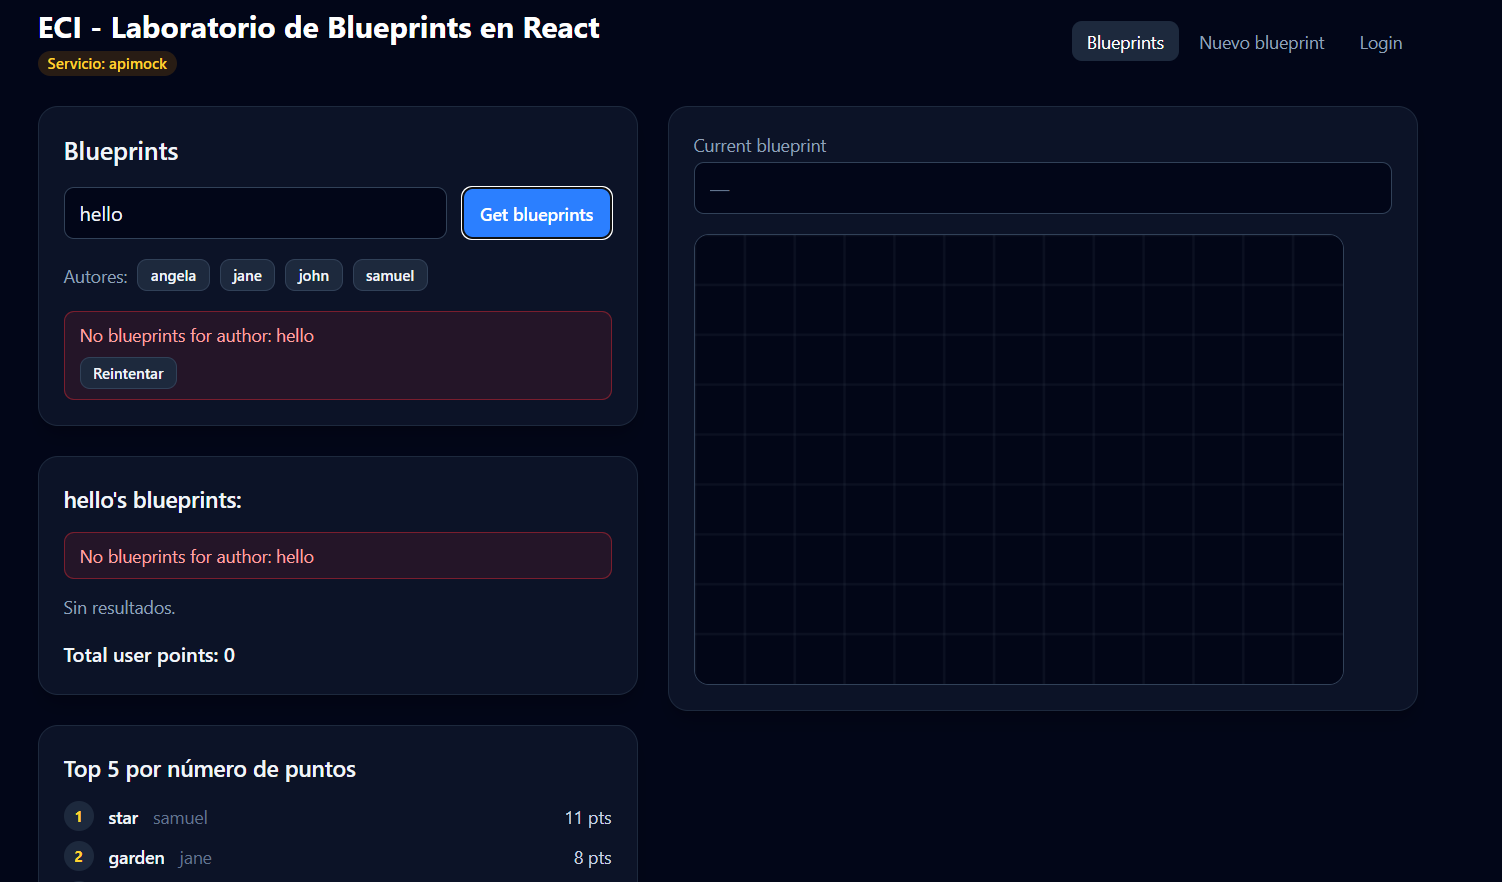
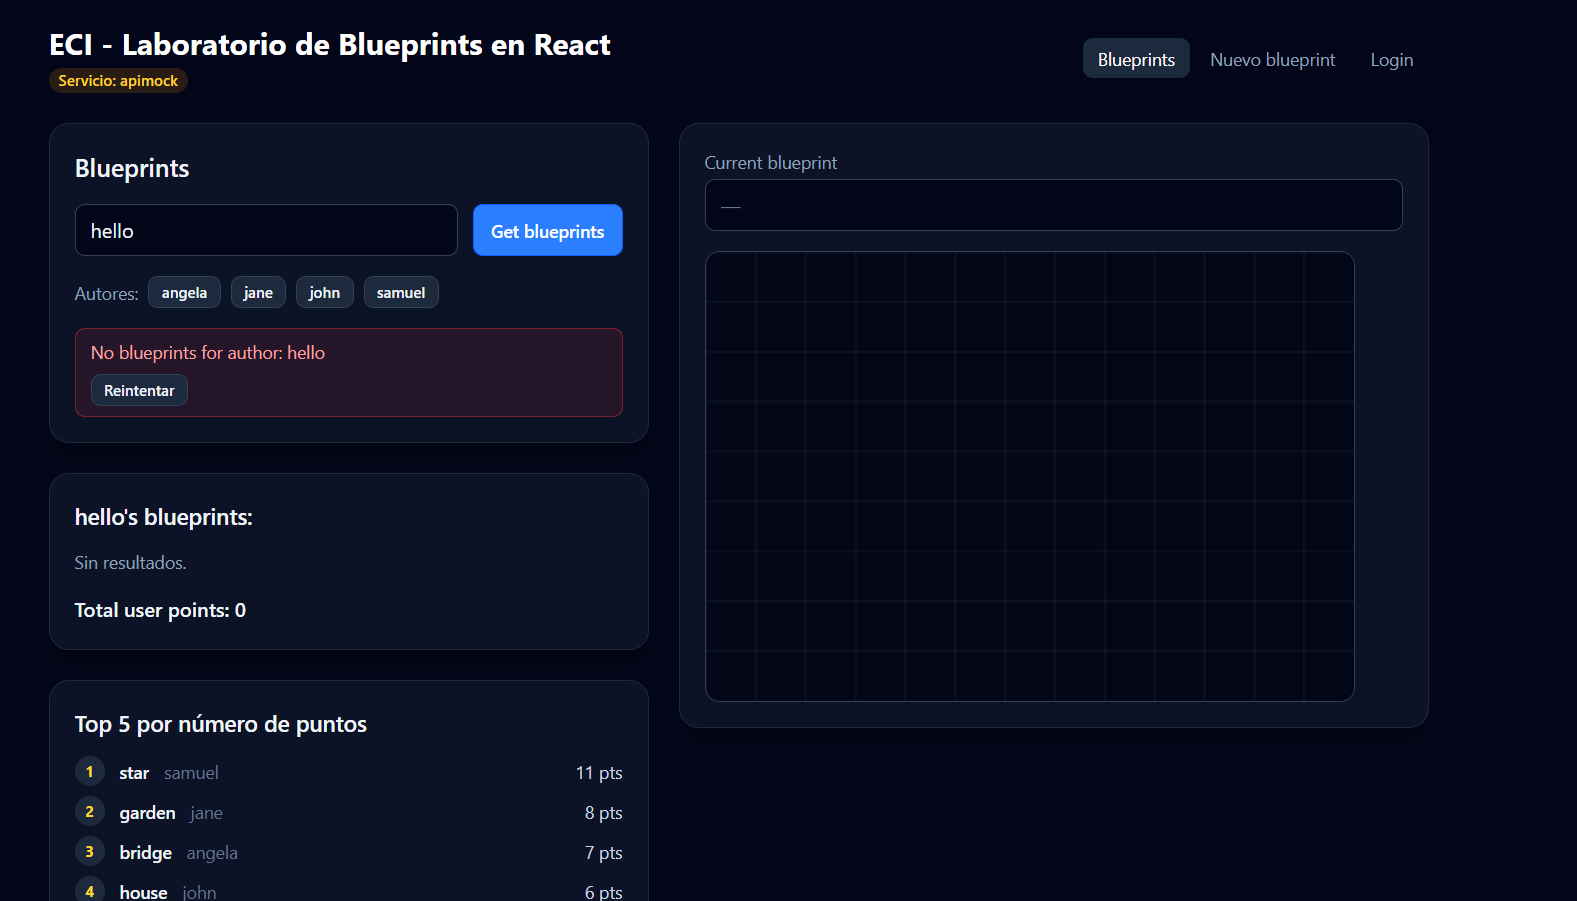
Lab ready + bonus

diff --git a/README.md b/README.md
@@ -327,14 +327,71 @@ A continuación se muestra la ejecución de dichos comandos con su commit y push
 
 ![before-actions](/src/img/before-actions.png)
 
+Después de estos comandos, se miró la página de Actions del repositorio, en donde me pedía habilitar mis workflows, le di click y esperamos algunos minutos a que se habilitara el workflow. Acá primero se mostró en amarillo el workflow basado en el último commit. A los pocos segundos, este se volvió verde, como se muestra a continuación: 
+
+![green-workflow](/src/img/green-workflow.png)
+
+Al darle click a este workflow, se pueden ver los siguientes detalles del worflow: 
+
+![workflow-details](/src/img/workflow-details.png)
+
+En adición, es posible ver un chulo verde al lado del nombre del último commit, en la pestaña de Code. 
+
 
 ### 8. Docker (opcional)
 
+**Nota**: Este punto fue apoyado en gran medida por Claude y ChatGPT, pues la cantidad de archivos que tocó modificar a nivel de back y front tanto para conservar los SEEDS del mock como para lograr la conexión exitosa es de alta complejidad. 
 
+Para poder hacer la conexión entre el repositorio del back [Laboratorio 4 - BluePrints Backend](https://github.com/Queruubin/Lab4_Castelblanco_Gomez), fue necesario editar los siguientes elementos: 
 
+**Backend:**
+
+- SecurityConfig.java: se configuró CORS para permitir que el frontend, ejecutándose en el puerto 5173, pueda realizar peticiones al backend, que continúa ejecutándose en el puerto 8080. 
+
+- InMemoryBlueprintPersistence.java: se actualizaron los datos iniciales almacenados en memoria para que coincidieran con los datos que originalmente estaban definidos en el apiMock.js del frontend.
+
+- schema.sql: se actualizaron los datos iniciales de PostgreSQL para incluir los mismos seis blueprints definidos originalmente en el mock del frontend, así los datos mostrados son los mismos que se tenían cuando la aplicación utilizaba datos mockeados.
+
+**Frontend:**
+
+* **`docker-compose.yml`**: se configuró el frontend para comunicarse con el backend mediante Docker. Se estableció el backend en el puerto `8080` y el frontend en el puerto `5173`.
+
+* En la configuración de Docker se estableció:
+
+```yaml
+VITE_USE_MOCK: "false"
+VITE_API_BASE_URL: "http://localhost:8080"
+```
+
+Esto hace que el frontend deje de utilizar `apiMock.js` y utilice `apiClient.js` para realizar las peticiones HTTP al backend real.
+
+* **`Dockerfile`**: se modificó para utilizar una construcción de múltiples etapas. Primero se construye la aplicación de React/Vite y posteriormente se sirve la aplicación compilada utilizando `serve` en el puerto `4173`, que se expone externamente mediante el puerto `5173`.
+
+* **`apiClient.js`**: este archivo ya contenía la lógica necesaria para comunicarse con el backend mediante Axios. Se utiliza para realizar las operaciones sobre los blueprints y para enviar las credenciales al endpoint `/auth/login`. También agrega automáticamente el token JWT en las peticiones que requieren autenticación.
+
+De esta forma, después de correr el siguiente comando desde el front, se ven los siguientes cambios: 
+
+```bash
+docker compose --build
+```
+
+![connection-before](/src/img/connection-before.png)
+
+Acá es posible identificar la conexión exitosa entre el back y el front, pues gracias a la **implementación de seguridad** y el uso de access tokens, el usuario no puede acceder a los blueprints hasta que inicie sesión, tal como se señala en el recuadro rojo con su texto de advertencia. 
+
+Ahora bien, una vez se inicia sesión con las credenciales
+
+**usuario**: student
+
+**contraseña**: student123 
+
+es posible acceder a los blueprints de otros usuarios por ejemplo, tal como aparece en la siguiente imagen. 
+
+![connection-after](/src/img/connection-after.png)
+
+Acá es posible ver como se ven los mismos blueprints de prueba (SEEDS) que se estaban usando previamente solo en el front ahora también aplican para el back, por lo que se muestran usuarios como angela, samuel, entre otros. 
+
+---
 **Nota**: debido a la falta de conocimiento en el manejo de desarrollo en el Front-End, algunas partes de código fueron guiadas por Claude, así como la documentación de los cambios realizados para mayor entendimiento. 
 
-
 --- 
-
-
